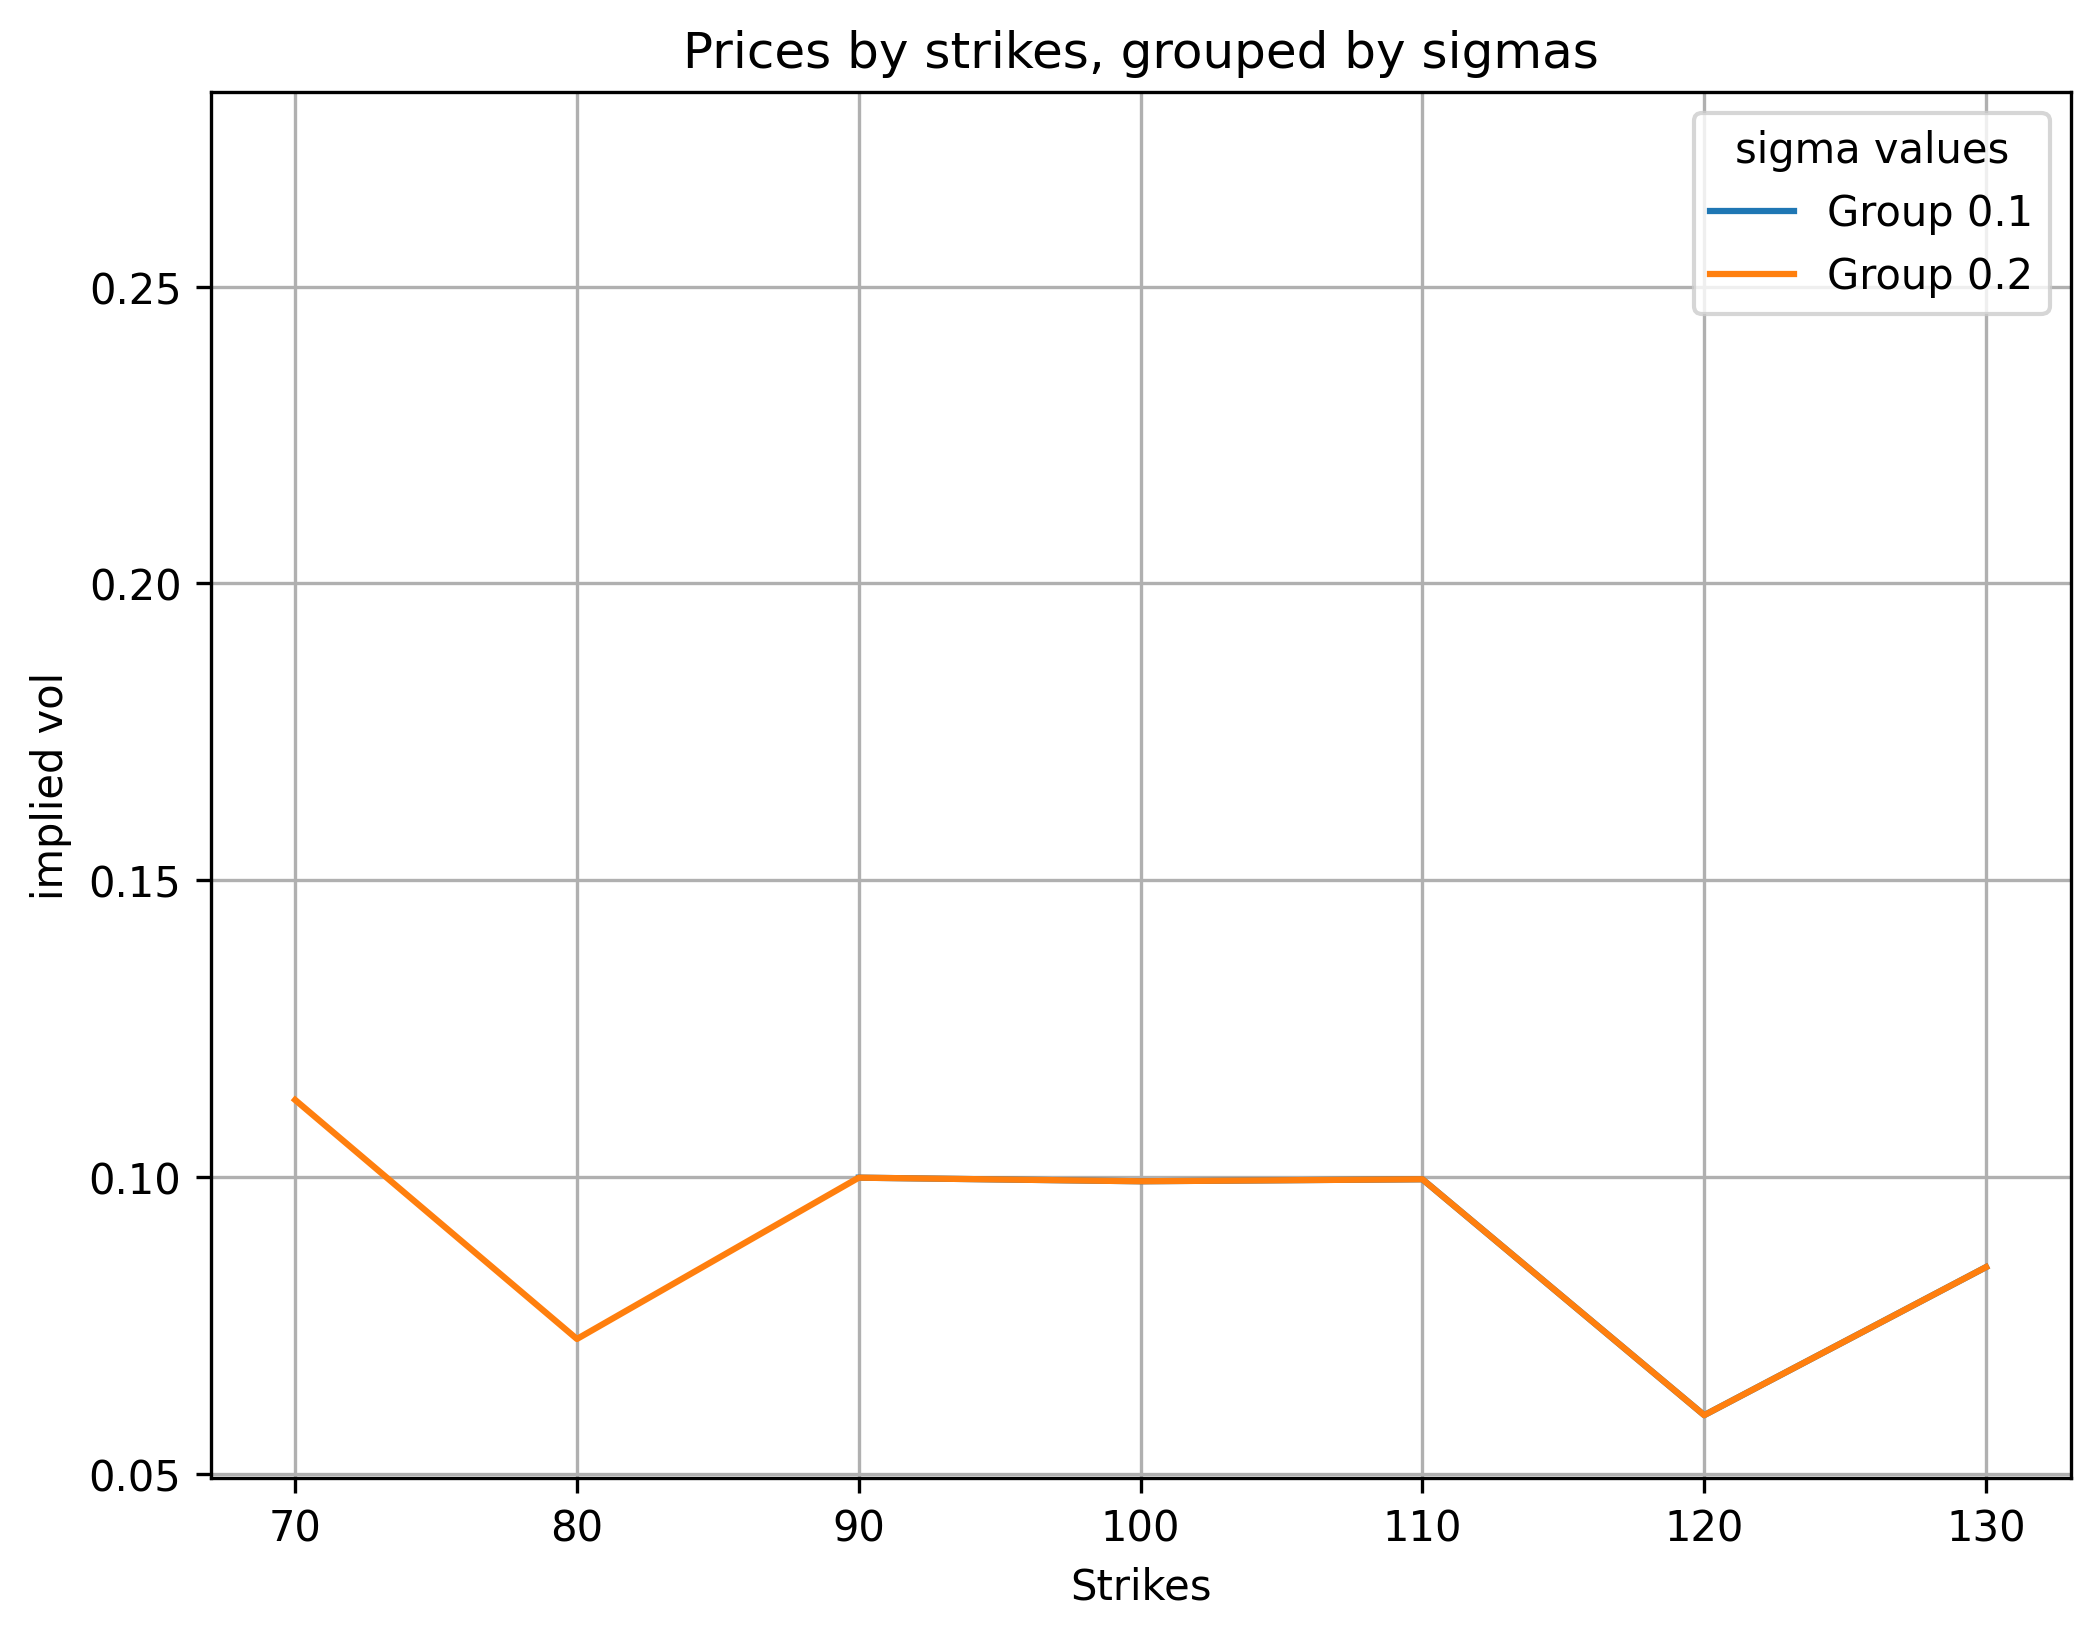
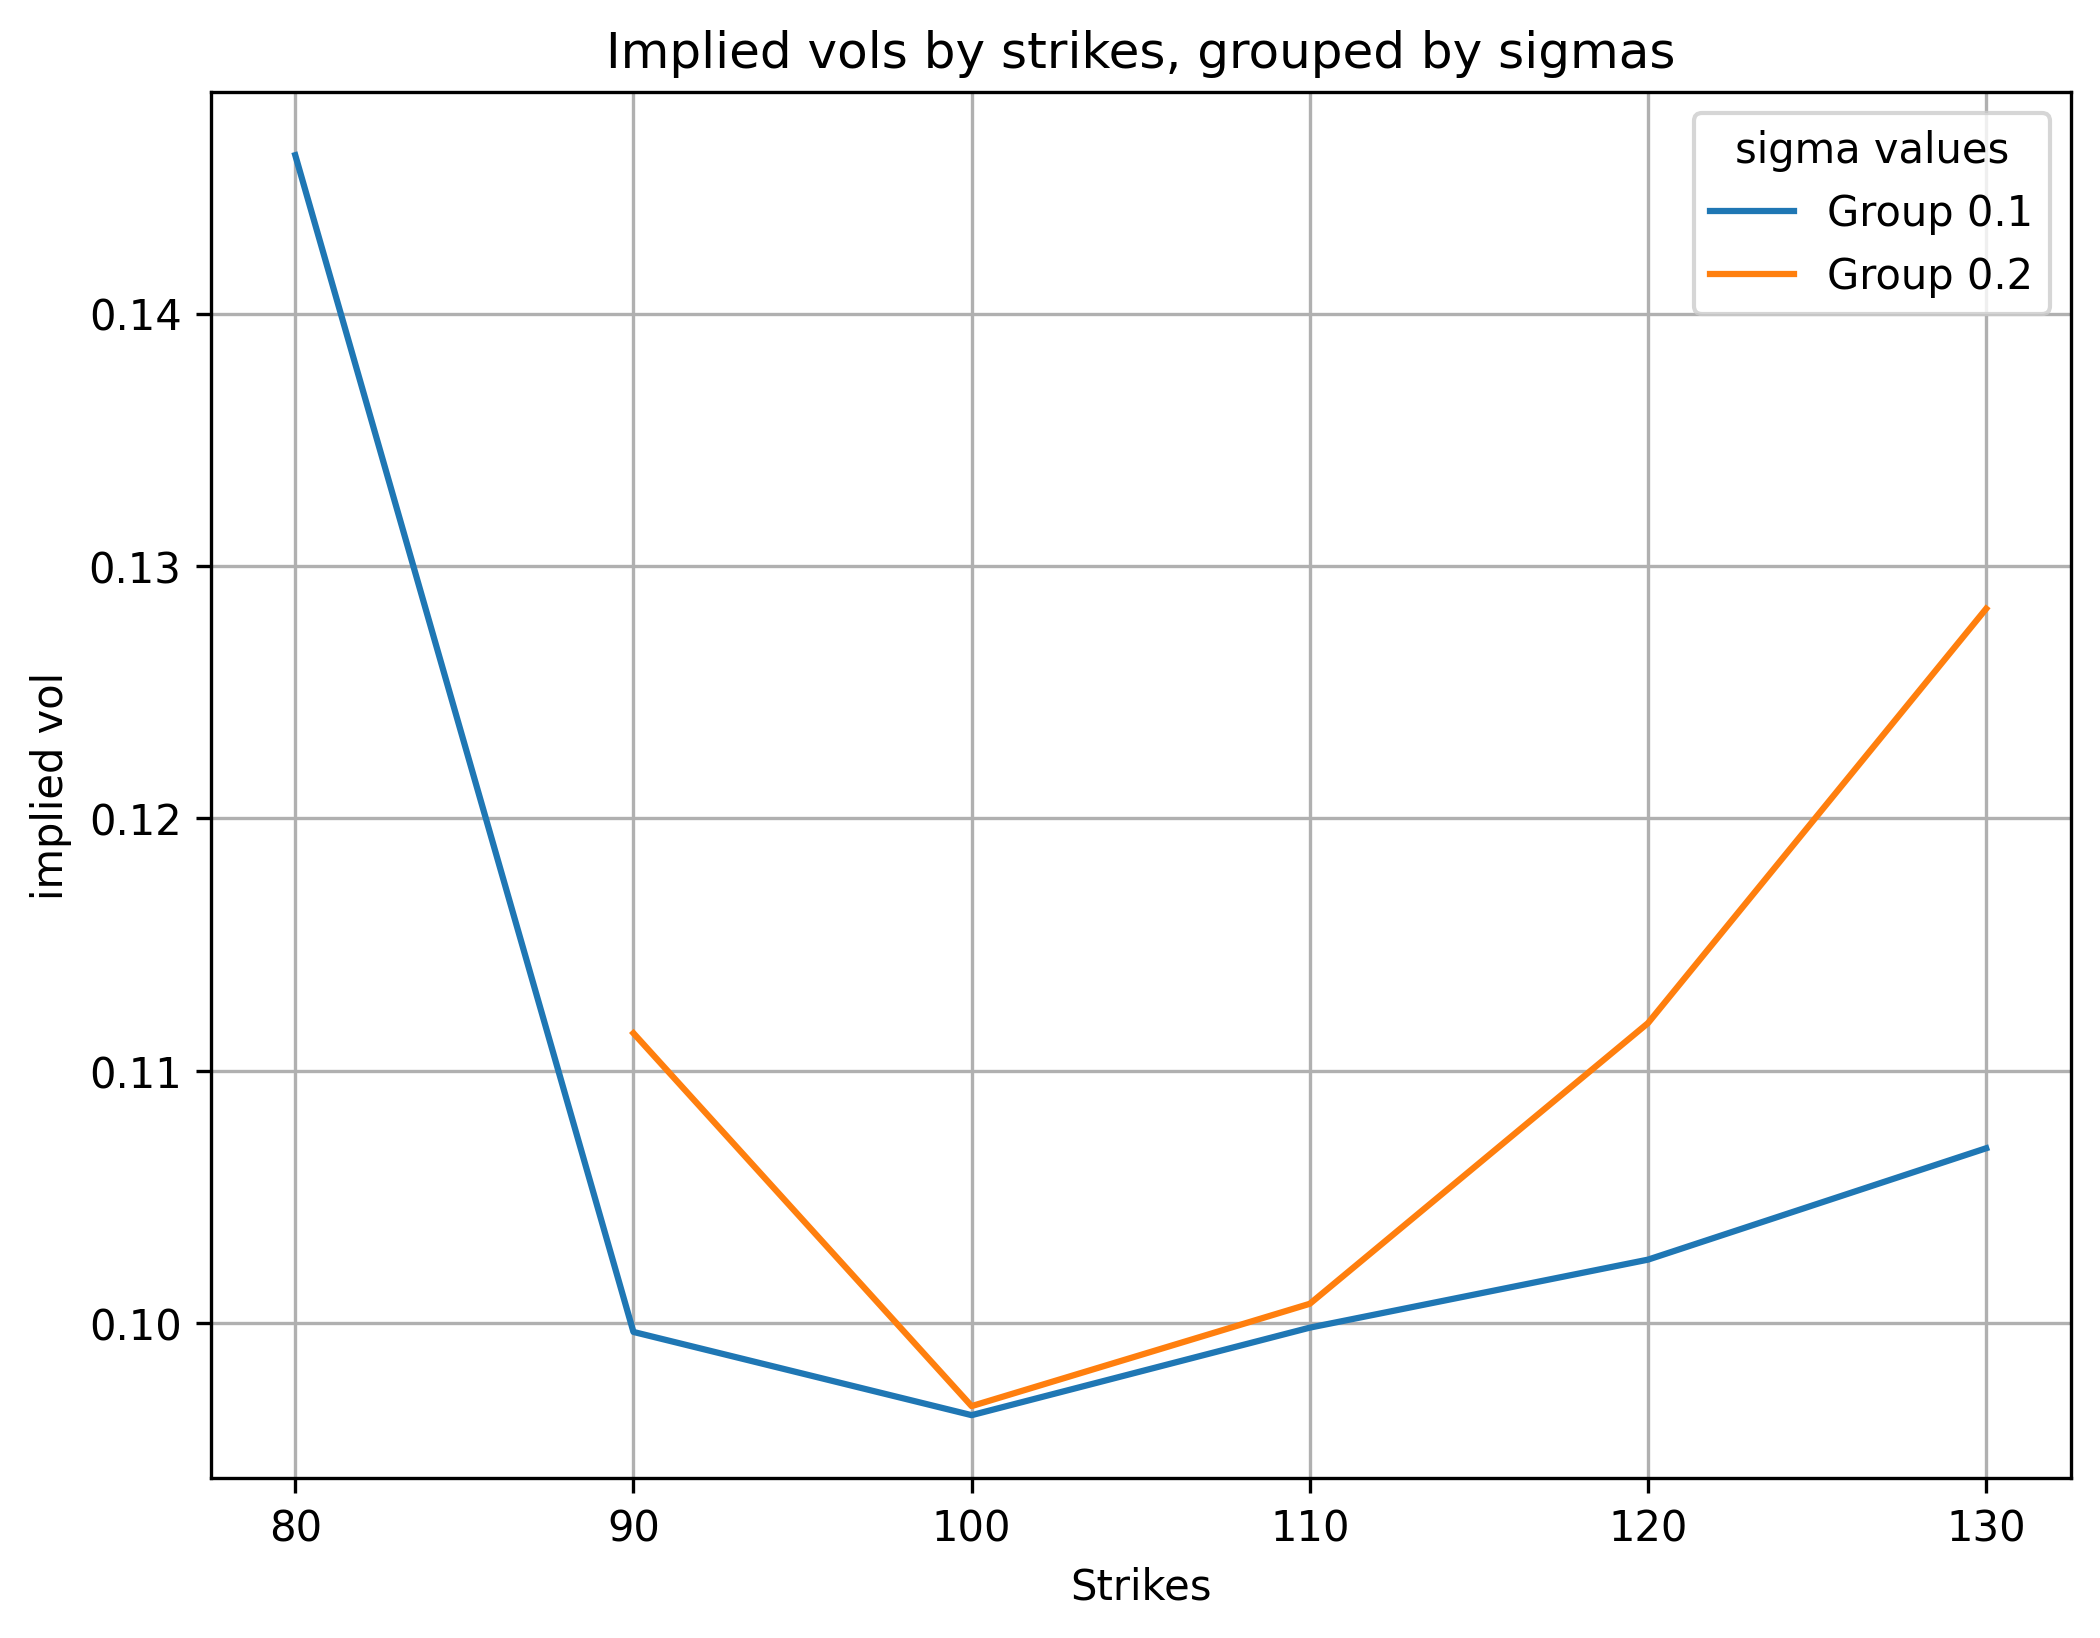
derivatives fix

diff --git a/derivatives_ha2/main_script.py b/derivatives_ha2/main_script.py
@@ -66,31 +66,23 @@ plt.savefig('derivatives_ha2//1st_plot.png', dpi=300, bbox_inches='tight')
 #part 2, different sigmas, rho = 0
 rho = 0
 res_list = list()
+res_list = list()
 for sigma in sigmas_list[1:]:
     print(f"starting sims for sigma {sigma}")
-    res_list.extend([(x, get_MC_estimate_spec(sigma = sigma, rho = rho, strike = x), sigma)
-                     for x in strikes_list
-                    ]
-             )
-
-for i in range(len(res_list)):
-    strike = res_list[i][0]
-    price = res_list[i][1]
-    sigma = res_list[i][2]
-    impl_vol = find_vol(round(price, 1), S_0, strike, T, r)
-
-    res_list[i] = (strike, sigma, impl_vol)
+    for strike in strikes_list:
+        price = get_MC_estimate_spec(sigma = sigma, rho = rho, strike = strike)
+        res_list.append((strike, find_vol(price, S_0, strike, T, r), sigma))
 
 df = pd.DataFrame(res_list)
 
 plt.figure(figsize=(8,6))
-for group in df[1].unique():
-    subset = df[df[1] == group]
-    plt.plot(subset[0], subset[2], label=f'Group {group}')
+for group in df[2].unique():
+    subset = df[df[2] == group]
+    plt.plot(subset[0], subset[1], label=f'Group {group}')
 
 plt.xlabel('Strikes')
 plt.ylabel('implied vol')
-plt.title('Prices by strikes, grouped by sigmas')
+plt.title('Implied vols by strikes, grouped by sigmas')
 plt.legend(title='sigma values')
 plt.grid(True)
 plt.savefig('derivatives_ha2//2nd_plot.png', dpi=300, bbox_inches='tight')
